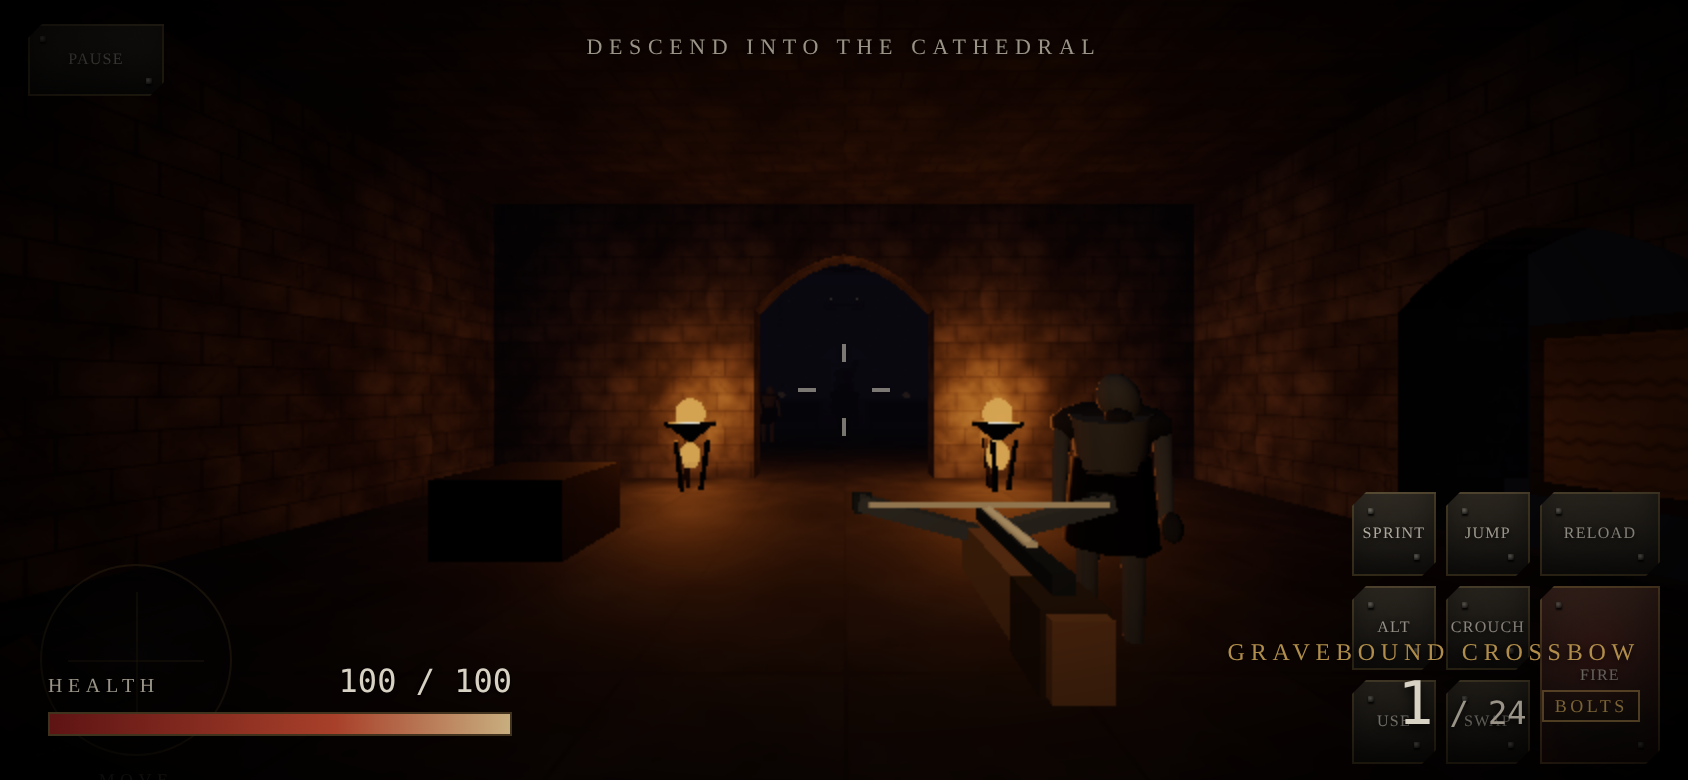
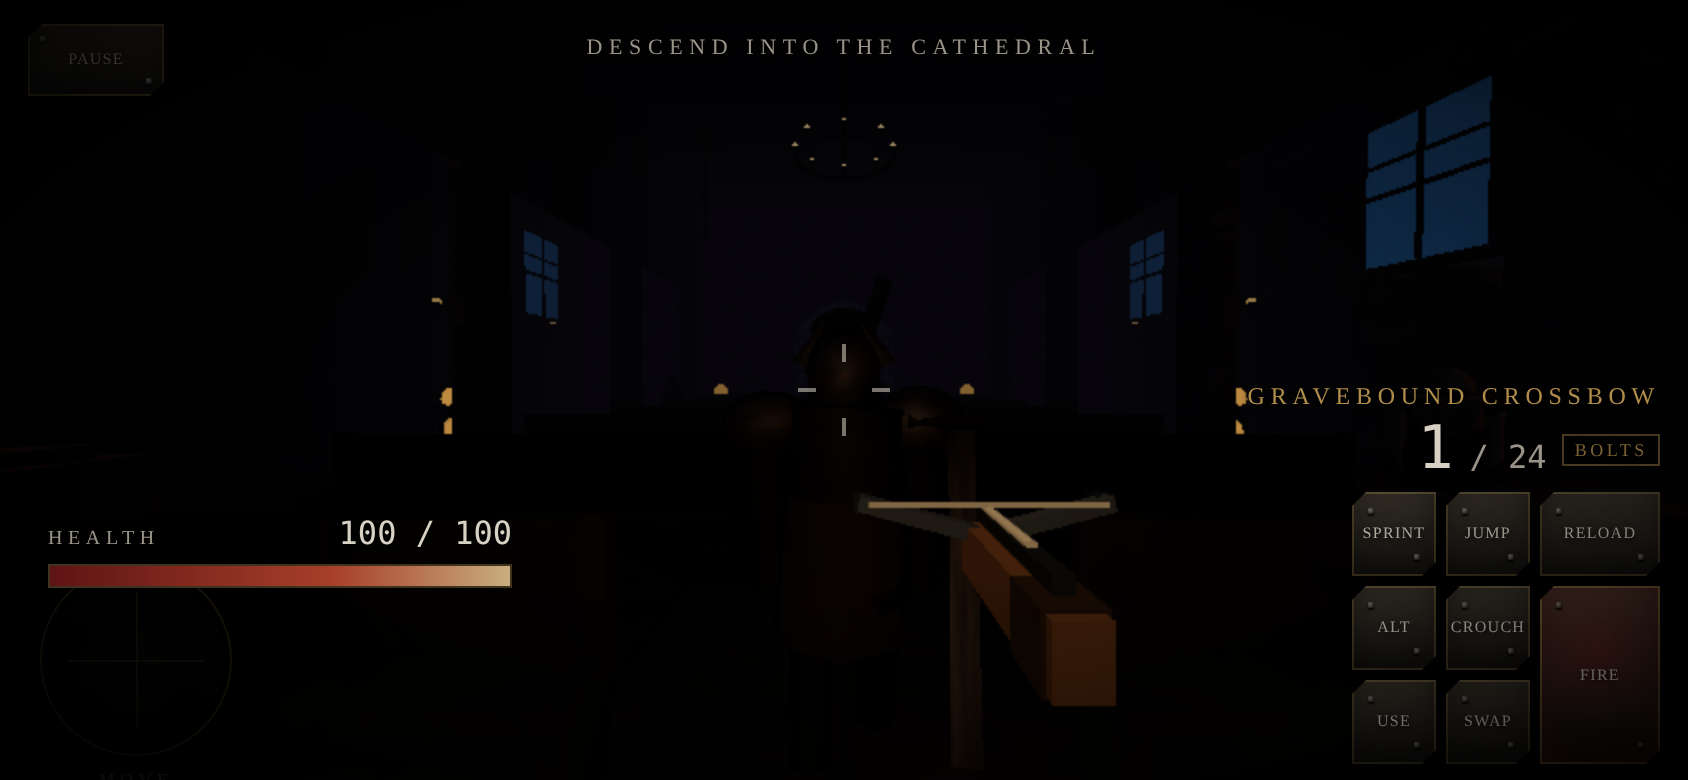
Fix combat damage, view model rendering and touch controls
Bugs found by the browser test suite and visual review:

- The Game onHit callback dropped the enemyHit argument, so hitscan
  weapons resolved a hit but never applied damage. Weapons could not
  hurt anything. Added a regression test for the whole chain.
- The enemy hitbox was a clipped cylinder that excluded the head. Now
  a proper capsule, so shots aimed at the head connect.
- The view model extended behind the camera and rendered as giant
  diagonal slabs. It now has its own scene with its own lighting, drawn
  after the world with a cleared depth buffer.
- The touch overlay was built but never enabled, so mobile controls
  ignored every touch.
- Collision resolved against the new position only, so a fast body
  could tunnel through a wall. Now swept.
- The broadphase y-filter had dead code and did nothing.
- Holding fire through a reload never fired when it completed.
- Pointer lock failure paused the game instantly on start.

Also: enemies read as distinct undead, mobile HUD no longer collides
with the action cluster, and tone mapping is less blown out.

Tests: 52 logic + 26 combat + 37 browser gameplay checks passing.

diff --git a/src/ui/ui.css b/src/ui/ui.css
@@ -399,10 +399,7 @@
   }
   .hc-health__value { font-size: 14px; }
   .hc-health__label { font-size: 9px; letter-spacing: 0.2em; }
-  /* On touch devices the action cluster occupies the bottom-right, so the
-     ammo readout moves up above it instead of sitting underneath. */
   .hc-weapon { right: calc(env(safe-area-inset-right, 0px) + 14px); bottom: calc(env(safe-area-inset-bottom, 0px) + 14px); }
-  body.tc-active .hc-weapon { bottom: calc(env(safe-area-inset-bottom, 0px) + 132px); }
   .hc-weapon__ammo { font-size: 22px; }
   .hc-weapon__reserve { font-size: 13px; }
   .hc-weapon__name { font-size: 10px; letter-spacing: 0.18em; }
@@ -424,6 +421,20 @@
   .hc-btn--large { padding: 14px 16px; font-size: 12px; letter-spacing: 0.22em; }
   .hc-weapon__ammo { font-size: 20px; }
 }
+
+/* =====================================================================
+   Touch layout
+   =====================================================================
+   When the on-screen controls are active, the action cluster owns the
+   bottom-right corner of the screen. The ammo readout moves up and left so
+   the two never overlap, at any viewport size. */
+
+body.tc-active .hc-weapon {
+  right: calc(env(safe-area-inset-right, 0px) + 14px);
+  bottom: calc(env(safe-area-inset-bottom, 0px) + 150px);
+  text-align: right;
+}
+body.tc-active .hc-health { bottom: calc(env(safe-area-inset-bottom, 0px) + 96px); }
 
 /* =====================================================================
    Reduced motion

diff --git a/src/core/Game.js b/src/core/Game.js
@@ -114,7 +114,7 @@ export class Game {
     this.renderer.setClearColor(0x08070a, 1);
     this.renderer.outputColorSpace = THREE.SRGBColorSpace;
     this.renderer.toneMapping = THREE.ACESFilmicToneMapping;
-    this.renderer.toneMappingExposure = 1.15;
+    this.renderer.toneMappingExposure = 0.92;
     this.renderer.shadowMap.enabled = false;
     this.renderer.info.autoReset = true;
   }
@@ -206,7 +206,8 @@ export class Game {
       enemies: this.enemies,
       viewCamera: this.player.viewCamera,
       onFire: (weapon, damage) => this._onWeaponFired(weapon, damage),
-      onHit: (point, normal, damage, weapon, didHit) => this._onWeaponHit(point, normal, damage, weapon, didHit),
+      onHit: (point, normal, damage, weapon, didHit, enemyHit) =>
+        this._onWeaponHit(point, normal, damage, weapon, didHit, enemyHit),
     });
 
     this.projectiles = new ProjectileSystem({

diff --git a/src/core/Textures.js b/src/core/Textures.js
@@ -476,21 +476,21 @@ export function createMaterials() {
 
   const bone = new THREE.MeshStandardMaterial({
     map: boneMap,
-    color: 0x9a9584,
-    roughness: 0.92,
+    color: 0x7d7869,
+    roughness: 0.94,
     metalness: 0.0,
   });
 
   // Sickly, corpse-grey flesh: greenish where it is cold, ruddy where
   // the blood has not yet settled.
   const flesh = new THREE.MeshStandardMaterial({
-    color: 0x5c5a48,
-    roughness: 0.94,
+    color: 0x4b4a3c,
+    roughness: 0.96,
     metalness: 0.0,
   });
 
   const fleshDark = new THREE.MeshStandardMaterial({
-    color: 0x35332a,
+    color: 0x2a2922,
     roughness: 0.97,
     metalness: 0.0,
   });
